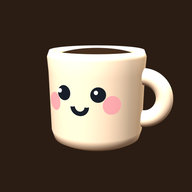
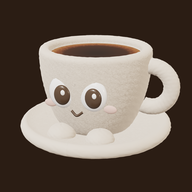
카영 캐릭터 새 단장: 보송한 크림 컵(큰 눈·발·통통 점프), 앱 아이콘·파비콘·공유 이미지 교체
Claude-Session: https://claude.ai/code/session_01PMfggq8PzajLUV5htKnLMb

diff --git a/docs/cafe/play/index.html b/docs/cafe/play/index.html
@@ -10,15 +10,15 @@
 <meta property="og:description" content="영어로 주문하고 수다 떠는 3D 카페.">
 <meta property="og:type" content="website">
 <meta property="og:url" content="https://www.cafeinenglish.com/cafe/play/">
-<meta property="og:image" content="https://www.cafeinenglish.com/cafe/play/og-cafe.png?v=10">
+<meta property="og:image" content="https://www.cafeinenglish.com/cafe/play/og-cafe.png?v=11">
 <meta property="og:image:width" content="1200">
 <meta property="og:image:height" content="630">
 <meta name="twitter:card" content="summary_large_image">
 <meta name="theme-color" content="#140E0A">
-<link rel="icon" href="/cafe/play/cafe-icon-48.png?v=9" sizes="48x48" type="image/png">
-<link rel="icon" href="/cafe/play/cafe-icon-32.png?v=9" sizes="32x32" type="image/png">
-<link rel="apple-touch-icon" href="/cafe/play/cafe-app-180.png?v=2">
-<link rel="manifest" href="/cafe/play/manifest.webmanifest?v=1">
+<link rel="icon" href="/cafe/play/cafe-icon-48.png?v=10" sizes="48x48" type="image/png">
+<link rel="icon" href="/cafe/play/cafe-icon-32.png?v=10" sizes="32x32" type="image/png">
+<link rel="apple-touch-icon" href="/cafe/play/cafe-app-180.png?v=3">
+<link rel="manifest" href="/cafe/play/manifest.webmanifest?v=2">
 <meta name="apple-mobile-web-app-title" content="카영">
 <meta name="application-name" content="카영">
 <meta name="apple-mobile-web-app-capable" content="yes">
@@ -942,12 +942,17 @@ const zoneFx=ZONES.map(z=>{const g=new THREE.Group();
  const dots=z.spots.map((s,i)=>{const h=z.type==='round'||z.type==='study'?24.5:z.type==='bar'?27:(i<3?31:23.5);const d=new THREE.Mesh(new THREE.CircleGeometry(5,24),fxMat);d.rotation.x=-Math.PI/2;d.position.set(s.x,h,s.z);g.add(d);return d;});
  g.visible=false;scene.add(g);return {z,g,dots};});
 let pendingSit=null;
-const mugPts=[[0,0],[9.6,0],[11.6,1.1],[12.3,3.4],[12.7,19],[13,23],[12.4,24.6],[11.2,24.6],[11,23],[0,23]].map(p=>new THREE.Vector2(p[0],p[1]));
-const G_MUG=new THREE.LatheGeometry(mugPts,40),G_FOAM=new THREE.SphereGeometry(11,32,10,0,Math.PI*2,0,Math.PI/2),G_HANDLE=new THREE.TorusGeometry(5.8,2.1,12,24,Math.PI),
+const MR=y=>{const t=Math.max(0,Math.min(1,(y-3)/21));return 6.6+6.2*Math.pow(Math.sin(Math.PI/2*t),.6);};
+const mugPts=[[0,3],[5.6,3],[6.4,3.4]];for(let i=1;i<=24;i++){const y=3+21*i/24;mugPts.push([MR(y),y]);}
+[[13.1,24.5],[12.7,25.2],[11.9,25.2],[11.4,24.2],[11.2,23.2],[0,23.2]].forEach(q=>mugPts.push(q));
+for(let i=0;i<mugPts.length;i++)mugPts[i]=new THREE.Vector2(mugPts[i][0],mugPts[i][1]);
+const G_MUG=new THREE.LatheGeometry(mugPts,48),G_FOOT=new THREE.SphereGeometry(3.4,16,12),G_SCL=new THREE.SphereGeometry(1,20,14),G_FOAM=new THREE.SphereGeometry(11,32,10,0,Math.PI*2,0,Math.PI/2),G_HANDLE=new THREE.TorusGeometry(5,2.3,12,28,Math.PI*1.3),
  G_EYE=new THREE.SphereGeometry(1.75,16,12),G_DOT=new THREE.SphereGeometry(2.6,16,12),G_BLUSH=new THREE.CircleGeometry(2.3,16),G_SMILE=new THREE.TorusGeometry(1.7,.5,6,14,Math.PI),G_HL=new THREE.SphereGeometry(.55,10,8);const hlM=new THREE.MeshBasicMaterial({color:'#FFFFFF'});
 const eyeM=new THREE.MeshBasicMaterial({color:'#191F28'}),eyeB=new THREE.MeshBasicMaterial({color:CREAM}),limeM=new THREE.MeshBasicMaterial({color:LIME}),blM=new THREE.MeshBasicMaterial({color:'#FF9AAA',transparent:true,opacity:.6});
 const ceramicMats=[];
-const MUG_M=new THREE.MeshStandardMaterial({color:'#F4E6D2',roughness:.38,emissive:'#3A2C20',emissiveIntensity:.55});
+const FUZZ_T=(()=>{const c=document.createElement('canvas');c.width=c.height=128;const g=c.getContext('2d');g.fillStyle='rgb(128,128,255)';g.fillRect(0,0,128,128);for(let i=0;i<1800;i++){const x=Math.random()*128,y=Math.random()*128,a=Math.random()*6.28;g.strokeStyle=`rgba(${128+Math.cos(a)*90|0},${128+Math.sin(a)*90|0},235,.5)`;g.lineWidth=1;g.beginPath();g.moveTo(x,y);g.lineTo(x+Math.cos(a)*2.5,y+Math.sin(a)*2.5);g.stroke();}const t=new THREE.CanvasTexture(c);t.wrapS=t.wrapT=THREE.RepeatWrapping;t.repeat.set(8,4);return t;})();
+const MUG_M=new THREE.MeshStandardMaterial({color:'#FFF5E8',roughness:.95,normalMap:FUZZ_T,normalScale:new THREE.Vector2(.5,.5),emissive:'#C9B39A',emissiveIntensity:.42});
+const SCL_M=new THREE.MeshStandardMaterial({color:'#FFFFFF',roughness:.25,emissive:'#5a4a3c',emissiveIntensity:.35}),PUP_M=new THREE.MeshStandardMaterial({color:'#2B1D14',roughness:.25});
 const DRINK=[[/에스프레소/,'esp'],[/아메리카노/,'ame'],[/콜드브루/,'cold'],[/머핀|초코/,'choco'],[/카푸치노/,'capp'],[/크루아상|카라멜/,'cara'],[/마카롱|딸기/,'straw'],[/녹차/,'green'],[/스콘|밀크티/,'milktea'],[/레몬/,'lemon'],[/얼그레이/,'earl'],[/라떼/,'latte']];
 const G_HEART=(()=>{const s=new THREE.Shape();s.moveTo(0,-3);s.bezierCurveTo(-5,1,-3,4.5,0,2.4);s.bezierCurveTo(3,4.5,5,1,0,-3);return new THREE.ShapeGeometry(s,12);})();
 function drinkTop(p,g){if(p.barista){const t=new THREE.Mesh(G_FOAM,M('foam',{color:CREAM}));t.visible=false;return t;}const k=((DRINK.find(([re])=>re.test(p.ko||''))||[0,'latte'])[1]);
@@ -966,20 +971,25 @@ function drinkTop(p,g){if(p.barista){const t=new THREE.Mesh(G_FOAM,M('foam',{col
 function mugMesh(p){const wrap=new THREE.Group(),g=new THREE.Group();const bm=MUG_M;
  const body=new THREE.Mesh(G_MUG,bm);body.castShadow=true;
  const foam=drinkTop(p,g);
-  const h=new THREE.Mesh(G_HANDLE,bm);h.rotation.z=-Math.PI/2;h.position.set(12.4,12.5,0);h.castShadow=true;
- const em=eyeM;[-4.3,4.3].forEach(x=>{const e=new THREE.Mesh(G_EYE,em);e.scale.z=.45;e.position.set(x,15.2,12.55);g.add(e);const hl=new THREE.Mesh(G_HL,hlM);hl.position.set(x-.55,15.85,13.3);g.add(hl);});
- const sm=new THREE.Mesh(G_SMILE,em);sm.rotation.z=Math.PI;sm.position.set(0,12.3,12.75);g.add(sm);
- [-1,1].forEach(s=>{const b=new THREE.Mesh(G_BLUSH,blM);b.position.set(s*7.6,12.4,11.15);b.rotation.y=s*.58;g.add(b);});
+ const h=new THREE.Mesh(G_HANDLE,bm);h.rotation.z=-Math.PI*.62;h.position.set(12.6,14.5,0);h.castShadow=true;
+ const onS=(x,y,o)=>{const r=MR(y)+o;return Math.sqrt(Math.max(1,r*r-x*x));};
+ [-4.8,4.8].forEach(x=>{const y=17.2,z=onS(x,y,0),ry=Math.asin(x/MR(y));
+  const e=new THREE.Mesh(G_SCL,SCL_M);e.scale.set(2.9,3.4,1.1);e.position.set(x,y,z);e.rotation.y=ry;g.add(e);
+  const pu=new THREE.Mesh(G_SCL,PUP_M);pu.scale.set(1.8,2.15,.7);pu.position.set(x*1.04+.3,y-.3,z+.75);pu.rotation.y=ry;g.add(pu);
+  const hl=new THREE.Mesh(G_HL,hlM);hl.position.set(x*1.04+.95,y+.6,z+1.4);g.add(hl);});
+ const sm=new THREE.Mesh(G_SMILE,PUP_M);sm.scale.setScalar(.75);sm.rotation.z=Math.PI;sm.position.set(0,13.1,onS(0,13.1,.25));g.add(sm);
+ [-1,1].forEach(s=>{const b=new THREE.Mesh(G_BLUSH,blM);const x=s*8,y=13.6;b.position.set(x,y,onS(x,y,.15));b.rotation.y=Math.asin(x/MR(y));g.add(b);
+  const f=new THREE.Mesh(G_FOOT,bm);f.scale.set(1,.72,1.2);f.position.set(s*4.3,2.3,2.2);f.castShadow=true;g.add(f);});
  g.add(body,h);
  if(p.barista){const S=(c,r)=>new THREE.MeshStandardMaterial({color:c,roughness:r||.85,side:THREE.DoubleSide});
-  const ap=new THREE.Mesh(new THREE.CylinderGeometry(13.05,12.75,8.6,40,1,true,-1.15,2.3),S(ESP));ap.position.y=4.9;g.add(ap);
-  const tie=new THREE.Mesh(new THREE.CylinderGeometry(13.1,13.0,.9,40,1,true),S('#1A110B',.7));tie.position.y=9.2;g.add(tie);
-  {const a=-4.2/13;const pk=new THREE.Mesh(new THREE.BoxGeometry(5,3.6,.5),S('#3A281C',.8));pk.position.set(Math.sin(a)*13.25,5.2,Math.cos(a)*13.25);pk.rotation.y=a;g.add(pk);}
+  const ap=new THREE.Mesh(new THREE.LatheGeometry(Array.from({length:9},(_,i)=>{const y=4.4+i*.6+i*i*.0;return new THREE.Vector2(MR(y)+.3,y);}),40,-1.15,2.3),S(ESP));g.add(ap);
+  const tie=new THREE.Mesh(new THREE.CylinderGeometry(MR(9.6)+.4,MR(8.8)+.4,.9,40,1,true),S('#1A110B',.7));tie.position.y=9.2;g.add(tie);
+  {const a=-4.2/13;const pk=new THREE.Mesh(new THREE.BoxGeometry(5,3.6,.5),S('#3A281C',.8));pk.position.set(Math.sin(a)*(MR(6.2)+.45),6.2,Math.cos(a)*(MR(6.2)+.45));pk.rotation.y=a;g.add(pk);}
   {const c=document.createElement('canvas');c.width=128;c.height=64;const t=c.getContext('2d');t.fillStyle='#FFF6E6';t.beginPath();t.roundRect(0,0,128,64,14);t.fill();t.fillStyle='#2B1D14';t.font='900 46px sans-serif';t.textAlign='center';t.textBaseline='middle';t.fillText('C',56,34);t.fillStyle=LIME;t.beginPath();t.arc(86,46,8,0,7);t.fill();
-   const a=4.2/13,m=new THREE.Mesh(new THREE.PlaneGeometry(4,2),new THREE.MeshBasicMaterial({map:new THREE.CanvasTexture(c),transparent:true}));m.position.set(Math.sin(a)*13.4,5.8,Math.cos(a)*13.4);m.rotation.y=a;g.add(m);}
+   const a=4.2/13,m=new THREE.Mesh(new THREE.PlaneGeometry(4,2),new THREE.MeshBasicMaterial({map:new THREE.CanvasTexture(c),transparent:true}));m.position.set(Math.sin(a)*(MR(6.8)+.6),6.8,Math.cos(a)*(MR(6.8)+.6));m.rotation.y=a;g.add(m);}
   const bg=new THREE.Group();const br=new THREE.Mesh(new THREE.SphereGeometry(13,36,18),S('#2A1C13',.95));br.scale.set(1,.3,1);bg.add(br);
   const nub=new THREE.Mesh(new THREE.CylinderGeometry(.5,.8,1.8,10),S('#1A110B'));nub.position.y=4.3;bg.add(nub);
-  bg.position.set(-2.6,26.3,.3);bg.rotation.set(-.05,0,.24);g.add(bg);}
+  bg.position.set(-2.6,26.8,.3);bg.rotation.set(-.05,0,.24);g.add(bg);}
  wrap.add(g);if(p.barista)wrap.scale.setScalar(1.4);
  if(p.me){const r=new THREE.Mesh(new THREE.RingGeometry(15,18.5,40),limeM);r.rotation.x=-Math.PI/2;r.position.y=2.2;wrap.add(r);}
  scene.add(wrap);p.wrap=wrap;p.g=g;}
@@ -1100,9 +1110,10 @@ function frame(now){const dt=Math.min(.1,(now-last)/1000);last=now;const t=now/1
  all.forEach(p=>{let target;if(p.seat){const z=ZONES.find(o=>o.id===p.seat[0]);const s=z.spots[p.seat[1]];target=s.face!=null?s.face:Math.atan2(z.x-s.x,z.z-s.z);}
   else if(p.barista)target=Math.max(-.6,Math.min(.6,Math.atan2(me.x-p.x,me.z-p.z)));else if(p.moving)target=Math.atan2(p.vx,p.vz);else target=p.ang;
   if(p.anim&&p.anim.face!=null)target=p.anim.face;let da=target-p.ang;da=Math.atan2(Math.sin(da),Math.cos(da));p.ang+=da*Math.min(1,dt*10);
-  const hop=p.moving?Math.abs(Math.sin(t*11+p.ph))*4:0,sq=p.moving?1-Math.abs(Math.cos(t*11+p.ph))*.06:1+Math.sin(t*2+p.ph)*.012;
+  let hop=0,sq=1+Math.sin(t*2+p.ph)*.012;if(p.moving){const u=(t*1.9+p.ph)%1;if(u<.15)sq=1-.12*Math.sin(Math.PI*u/.15);else{const v=(u-.15)/.85;hop=Math.sin(Math.PI*v)*6;sq=1+.07*Math.sin(Math.PI*v);}}
+  else if(!p.seat&&!p.barista){const u=((t+p.ph*2.3)%5)/.55;if(u<1){if(u<.25)sq=1-.1*Math.sin(Math.PI*u/.25);else{const v=(u-.25)/.75;hop=Math.sin(Math.PI*v)*3.5;sq=1+.05*Math.sin(Math.PI*v);}}}
   let px=p.x,pz=p.z,py=0;if(p.seat){const z=ZONES.find(o=>o.id===p.seat[0]);if(z.type==='round'){const dx=z.x-p.x,dz=z.z-p.z,d=Math.hypot(dx,dz)||1;px+=dx/d*5;pz+=dz/d*5;py=23.5;}else if(z.type==='study'){px+=(z.x>p.x?5:-5);py=23.5;}else if(z.type==='bar')py=26;else py=p.seat[1]<3?30.5:22.5;}
-  if(p.barista)py=31;if(!p.seat&&!p.barista&&typeof STAGE!=='undefined'&&Math.abs(p.x-STAGE.x)<88&&Math.abs(p.z-STAGE.z)<42)py=14;p.py=py;p.wrap.position.set(px,py,pz);p.wrap.rotation.y=p.ang;if(p.me)p.wrap.children[1].visible=!p.seat;p.g.position.y=hop;p.g.scale.y=sq;
+  if(p.barista)py=31;if(!p.seat&&!p.barista&&typeof STAGE!=='undefined'&&Math.abs(p.x-STAGE.x)<88&&Math.abs(p.z-STAGE.z)<42)py=14;p.py=py;p.wrap.position.set(px,py,pz);p.wrap.rotation.y=p.ang;if(p.me)p.wrap.children[1].visible=!p.seat;p.g.position.y=hop;p.g.scale.set(1/Math.sqrt(sq),sq,1/Math.sqrt(sq));
   let rx=0,fw=0;if(p.anim){const k=(now-p.anim.t0)/p.anim.dur;if(k>=1)p.anim=null;else if(k>0){const e=Math.sin(Math.PI*k);if(p.anim.type==='nod')rx=.5*e;else{rx=.34*e;fw=6*e;}}}p.g.rotation.x=rx;p.g.position.z=fw;
   if(p.until&&now>p.until)hush(p);});
  fxMat.opacity=.5+.3*Math.sin(t*4);zoneFx.forEach(f=>{const on=!seated&&f.z&&((near&&near.z===f.z)||pendingSit===f.z||hoverZone===f.z);f.g.visible=on;if(on){const used=people.filter(q=>q.seat&&q.seat[0]===f.z.id).map(q=>q.seat[1]);f.dots.forEach((d,i)=>d.visible=!used.includes(i));}});
